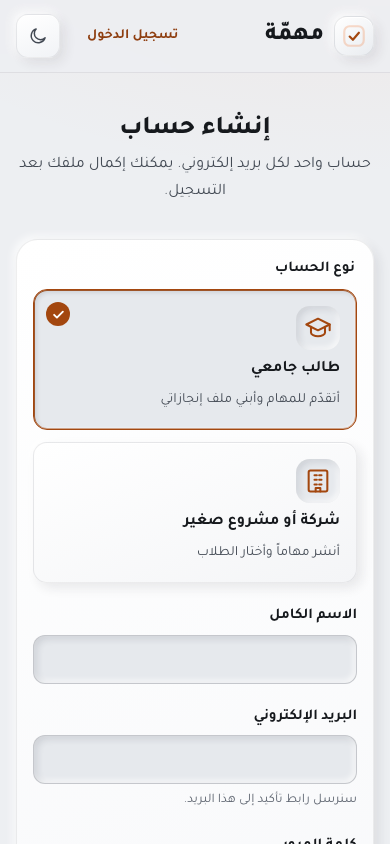
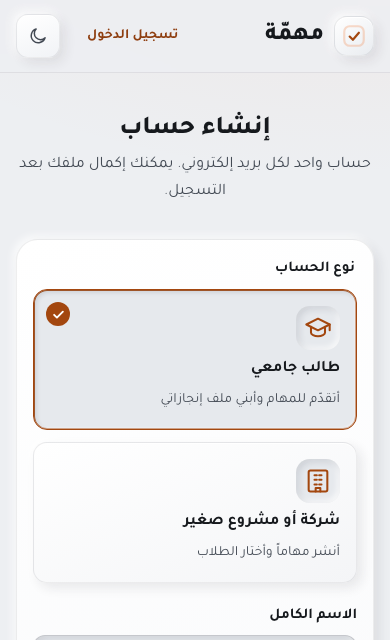
docs: balance the README screenshot grid and fix the tagline direction
The tall phone screenshot stretched its table row, leaving the workspace
image floating in empty space. It is recaptured at 390x640 and shown at
160px, so both images in the row are ~262px tall. The tagline mixed
Arabic and English on one line, which put the English full stop at the
wrong end; the Arabic line now has dir="rtl" and the English its own line.

diff --git a/README.md b/README.md
@@ -4,7 +4,9 @@
 
 # مهمّة · Mihmah
 
-**خبرتك تبدأ بمهمّة.** Your experience starts with a task.
+<p dir="rtl"><strong>خبرتك تبدأ بمهمّة</strong></p>
+
+<em>Your experience starts with a task.</em>
 
 A marketplace that connects Jordanian university students with small businesses for short, paid, clearly scoped digital projects.
 
@@ -37,7 +39,7 @@ Small businesses need small digital jobs done: a menu redesign, a landing page, 
 | :---: | :---: |
 | <img src="docs/screenshots/landing-dark.png" alt="Landing page in dark mode" width="420"> | <img src="docs/screenshots/discover-light.png" alt="Task discovery with filters in light mode" width="420"> |
 | **Project workspace (dark)** | **Sign-up on a phone (light)** |
-| <img src="docs/screenshots/workspace-dark.png" alt="Project workspace with milestones, payment status and messages" width="420"> | <img src="docs/screenshots/signup-mobile-light.png" alt="Sign-up page on a phone in light mode" width="200"> |
+| <img src="docs/screenshots/workspace-dark.png" alt="Project workspace with milestones, payment status and messages" width="420"> | <img src="docs/screenshots/signup-mobile-light.png" alt="Sign-up page on a phone in light mode" width="160"> |
 
 <sub>Screenshots use the fictional development data that ships with the repo.</sub>
 
